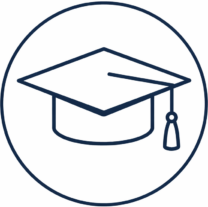
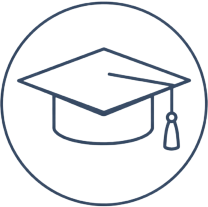
Retours cliente du 28 septembre : dates, icône, accès formation, paiement
Centre de formation
- l'icône des évaluations avait un fond blanc opaque, contrairement aux deux
  autres : détourée, le carré blanc sur le fond taupe disparaît
- dates corrigées pour Matwork 2 et 3, le petit matériel et le Swiss Ball
- cinq sessions intensives ajoutées, l'ensemble étant rangé dans l'ordre
  chronologique ; badge "Possibilité d'hébergement" là où elle l'indique
- leurs tarifs n'ayant pas été communiqués, elles affichent "Nous consulter"

Accueil
- sous "Pays Basque", la ligne "Les Cours & Le Centre de Formation
  Professionnelle" avec deux boutons d'accès direct
- bande "De passage au Pays Basque ?" avec le lien de paiement Stripe pour un
  cours d'une heure à l'unité

Changed region(s): [[0.0577, 0.2029, 0.9231, 0.7536], [0.0, 0.0, 1.0, 1.0]]

diff --git a/le-centre-de-formation/index.html b/le-centre-de-formation/index.html
@@ -17,7 +17,7 @@
 <link rel="preconnect" href="https://fonts.googleapis.com">
 <link rel="preconnect" href="https://fonts.gstatic.com" crossorigin>
 <link rel="stylesheet" href="https://fonts.googleapis.com/css2?family=Dancing+Script:wght@400;500;600;700&family=EB+Garamond:ital,wght@0,400;0,500;0,600;1,400&display=swap">
-<link rel="stylesheet" href="../assets/css/style.css?v=46090c5a">
+<link rel="stylesheet" href="../assets/css/style.css?v=d202612e">
 </head>
 <body class="theme-navy">
 <a class="skip-link" href="#main">Aller au contenu</a>
@@ -217,7 +217,7 @@
         <div>
           <h3 class="step__title">MATWORK 2</h3>
           <p class="step__level">[pour public niveau intermédiaire]</p>
-          <p class="step__dates"><svg viewBox="0 0 24 24" aria-hidden="true"><path d="M7 2v2H5a2 2 0 0 0-2 2v14a2 2 0 0 0 2 2h14a2 2 0 0 0 2-2V6a2 2 0 0 0-2-2h-2V2h-2v2H9V2H7Zm12 8v10H5V10h14Z"/></svg><span>28 &amp; 29 novembre 2026 + 5 &amp; 6 décembre</span></p>
+          <p class="step__dates"><svg viewBox="0 0 24 24" aria-hidden="true"><path d="M7 2v2H5a2 2 0 0 0-2 2v14a2 2 0 0 0 2 2h14a2 2 0 0 0 2-2V6a2 2 0 0 0-2-2h-2V2h-2v2H9V2H7Zm12 8v10H5V10h14Z"/></svg><span>28 &amp; 29 novembre 2026 + 3 &amp; 5 décembre</span></p>
         </div>
         <ul class="step__prices"><li><span>financement personnel</span><b>890€</b></li><li><span>avec prise en charge</span><b>1090€</b></li></ul>
       </article>
@@ -225,15 +225,23 @@
         <div>
           <h3 class="step__title">MATWORK 3</h3>
           <p class="step__level">[pour public niveau avancé]</p>
-          <p class="step__dates"><svg viewBox="0 0 24 24" aria-hidden="true"><path d="M7 2v2H5a2 2 0 0 0-2 2v14a2 2 0 0 0 2 2h14a2 2 0 0 0 2-2V6a2 2 0 0 0-2-2h-2V2h-2v2H9V2H7Zm12 8v10H5V10h14Z"/></svg><span>30 &amp; 31 janvier 2027 + 6 &amp; 7 février 2027</span></p>
+          <p class="step__dates"><svg viewBox="0 0 24 24" aria-hidden="true"><path d="M7 2v2H5a2 2 0 0 0-2 2v14a2 2 0 0 0 2 2h14a2 2 0 0 0 2-2V6a2 2 0 0 0-2-2h-2V2h-2v2H9V2H7Zm12 8v10H5V10h14Z"/></svg><span>9 &amp; 10 janvier 2027 + 14 &amp; 16 janvier 2027</span></p>
         </div>
         <ul class="step__prices"><li><span>financement personnel</span><b>890€</b></li><li><span>avec prise en charge</span><b>1090€</b></li></ul>
       </article>
       <article class="step reveal">
         <div>
+          <h3 class="step__title">MATWORK 1 + 2 + 3</h3>
+          <p class="step__level">[formation intensive]</p>
+          <p class="step__dates"><svg viewBox="0 0 24 24" aria-hidden="true"><path d="M7 2v2H5a2 2 0 0 0-2 2v14a2 2 0 0 0 2 2h14a2 2 0 0 0 2-2V6a2 2 0 0 0-2-2h-2V2h-2v2H9V2H7Zm12 8v10H5V10h14Z"/></svg><span>du 13 au 19 février 2027</span><span class="step__mention">Possibilité d’hébergement</span></p>
+        </div>
+        <ul class="step__prices"><li><span>tarif</span><b>Nous consulter</b></li></ul>
+      </article>
+      <article class="step reveal">
+        <div>
           <h3 class="step__title">Petit matériel (magic circle, foam roller, élastique, balles, ballon paille.)</h3>
           <p class="step__level">[pour tous niveaux]</p>
-          <p class="step__dates"><svg viewBox="0 0 24 24" aria-hidden="true"><path d="M7 2v2H5a2 2 0 0 0-2 2v14a2 2 0 0 0 2 2h14a2 2 0 0 0 2-2V6a2 2 0 0 0-2-2h-2V2h-2v2H9V2H7Zm12 8v10H5V10h14Z"/></svg><span>6 &amp; 7 mars 2027</span></p>
+          <p class="step__dates"><svg viewBox="0 0 24 24" aria-hidden="true"><path d="M7 2v2H5a2 2 0 0 0-2 2v14a2 2 0 0 0 2 2h14a2 2 0 0 0 2-2V6a2 2 0 0 0-2-2h-2V2h-2v2H9V2H7Zm12 8v10H5V10h14Z"/></svg><span>4 &amp; 11 mars 2027</span></p>
         </div>
         <ul class="step__prices"><li><span>financement personnel</span><b>490€</b></li><li><span>avec prise en charge</span><b>590€</b></li></ul>
       </article>
@@ -241,9 +249,25 @@
         <div>
           <h3 class="step__title">SWISS BALL</h3>
           <p class="step__level">[pour tous niveaux]</p>
-          <p class="step__dates"><svg viewBox="0 0 24 24" aria-hidden="true"><path d="M7 2v2H5a2 2 0 0 0-2 2v14a2 2 0 0 0 2 2h14a2 2 0 0 0 2-2V6a2 2 0 0 0-2-2h-2V2h-2v2H9V2H7Zm12 8v10H5V10h14Z"/></svg><span>3 &amp; 4 avril 2027</span></p>
+          <p class="step__dates"><svg viewBox="0 0 24 24" aria-hidden="true"><path d="M7 2v2H5a2 2 0 0 0-2 2v14a2 2 0 0 0 2 2h14a2 2 0 0 0 2-2V6a2 2 0 0 0-2-2h-2V2h-2v2H9V2H7Zm12 8v10H5V10h14Z"/></svg><span>18 &amp; 25 mars 2027</span></p>
         </div>
         <ul class="step__prices"><li><span>financement personnel</span><b>490€</b></li><li><span>avec prise en charge</span><b>590€</b></li></ul>
+      </article>
+      <article class="step reveal">
+        <div>
+          <h3 class="step__title">MATWORK 1 &amp; 2</h3>
+          <p class="step__level">[formation intensive]</p>
+          <p class="step__dates"><svg viewBox="0 0 24 24" aria-hidden="true"><path d="M7 2v2H5a2 2 0 0 0-2 2v14a2 2 0 0 0 2 2h14a2 2 0 0 0 2-2V6a2 2 0 0 0-2-2h-2V2h-2v2H9V2H7Zm12 8v10H5V10h14Z"/></svg><span>du 6 au 9 mai 2027, pont de l’Ascension</span><span class="step__mention">Possibilité d’hébergement</span></p>
+        </div>
+        <ul class="step__prices"><li><span>tarif</span><b>Nous consulter</b></li></ul>
+      </article>
+      <article class="step reveal">
+        <div>
+          <h3 class="step__title">MATWORK 3</h3>
+          <p class="step__level">[formation intensive]</p>
+          <p class="step__dates"><svg viewBox="0 0 24 24" aria-hidden="true"><path d="M7 2v2H5a2 2 0 0 0-2 2v14a2 2 0 0 0 2 2h14a2 2 0 0 0 2-2V6a2 2 0 0 0-2-2h-2V2h-2v2H9V2H7Zm12 8v10H5V10h14Z"/></svg><span>du samedi 15 au 17 mai 2027, pont de Pentecôte</span><span class="step__mention">Possibilité d’hébergement</span></p>
+        </div>
+        <ul class="step__prices"><li><span>tarif</span><b>Nous consulter</b></li></ul>
       </article>
       <article class="step reveal">
         <div>
@@ -252,6 +276,22 @@
           <p class="step__dates"><svg viewBox="0 0 24 24" aria-hidden="true"><path d="M7 2v2H5a2 2 0 0 0-2 2v14a2 2 0 0 0 2 2h14a2 2 0 0 0 2-2V6a2 2 0 0 0-2-2h-2V2h-2v2H9V2H7Zm12 8v10H5V10h14Z"/></svg><span>29 &amp; 30 mai 2027 + 5 &amp; 6 juin 2027</span></p>
         </div>
         <ul class="step__prices"><li><span>financement personnel</span><b>1090€</b></li><li><span>avec prise en charge</span><b>1290€</b></li></ul>
+      </article>
+      <article class="step reveal">
+        <div>
+          <h3 class="step__title">Petit matériel</h3>
+          <p class="step__level">[formation intensive]</p>
+          <p class="step__dates"><svg viewBox="0 0 24 24" aria-hidden="true"><path d="M7 2v2H5a2 2 0 0 0-2 2v14a2 2 0 0 0 2 2h14a2 2 0 0 0 2-2V6a2 2 0 0 0-2-2h-2V2h-2v2H9V2H7Zm12 8v10H5V10h14Z"/></svg><span>19 &amp; 20 juin 2027</span></p>
+        </div>
+        <ul class="step__prices"><li><span>tarif</span><b>Nous consulter</b></li></ul>
+      </article>
+      <article class="step reveal">
+        <div>
+          <h3 class="step__title">SWISS BALL</h3>
+          <p class="step__level">[formation intensive]</p>
+          <p class="step__dates"><svg viewBox="0 0 24 24" aria-hidden="true"><path d="M7 2v2H5a2 2 0 0 0-2 2v14a2 2 0 0 0 2 2h14a2 2 0 0 0 2-2V6a2 2 0 0 0-2-2h-2V2h-2v2H9V2H7Zm12 8v10H5V10h14Z"/></svg><span>27 juin 2027</span></p>
+        </div>
+        <ul class="step__prices"><li><span>tarif</span><b>Nous consulter</b></li></ul>
       </article>
       </div>
 

diff --git a/index.html b/index.html
@@ -17,7 +17,7 @@
 <link rel="preconnect" href="https://fonts.googleapis.com">
 <link rel="preconnect" href="https://fonts.gstatic.com" crossorigin>
 <link rel="stylesheet" href="https://fonts.googleapis.com/css2?family=Dancing+Script:wght@400;500;600;700&family=EB+Garamond:ital,wght@0,400;0,500;0,600;1,400&display=swap">
-<link rel="stylesheet" href="assets/css/style.css?v=46090c5a">
+<link rel="stylesheet" href="assets/css/style.css?v=d202612e">
 <script type="application/ld+json">
 {
   "@context": "https://schema.org",
@@ -76,6 +76,11 @@
       <p class="hero__brand">Les<em>2</em>L</p>
       <h1 class="hero__tagline">Pilates - Yoga - Ballet</h1>
       <h2 class="hero__place">Pays Basque</h2>
+      <p class="hero__lead">Les Cours &amp; Le Centre de Formation Professionnelle</p>
+      <div class="hero__actions">
+        <a class="btn" href="les-disciplines/">Les cours</a>
+        <a class="btn btn--light" href="le-centre-de-formation/">Le centre de formation</a>
+      </div>
       <div class="hero__socials">
         <a href="https://www.facebook.com/profile.php?id=100070696928721" target="_blank" rel="noopener" aria-label="Facebook"><svg viewBox="0 0 24 24" aria-hidden="true"><path d="M14 13.5h2.5l1-4H14v-2c0-1.03 0-2 2-2h1.5V2.14c-.33-.04-1.55-.14-2.84-.14C12 2 10.5 3.66 10.5 6.7v2.8H8v4h2.5V22H14v-8.5Z"/></svg></a>
         <a href="https://www.instagram.com/_les2l_/" target="_blank" rel="noopener" aria-label="Instagram"><svg viewBox="0 0 24 24" aria-hidden="true"><path d="M12 2.16c3.2 0 3.58.01 4.85.07 3.25.15 4.77 1.69 4.92 4.92.06 1.27.07 1.65.07 4.85s-.01 3.58-.07 4.85c-.15 3.23-1.66 4.77-4.92 4.92-1.27.06-1.64.07-4.85.07s-3.58-.01-4.85-.07c-3.26-.15-4.77-1.7-4.92-4.92-.06-1.27-.07-1.64-.07-4.85s.01-3.58.07-4.85C2.38 3.92 3.89 2.38 7.15 2.23 8.42 2.18 8.8 2.16 12 2.16Zm0 5.5a4.34 4.34 0 1 0 0 8.68 4.34 4.34 0 0 0 0-8.68Zm0 7.16a2.82 2.82 0 1 1 0-5.64 2.82 2.82 0 0 1 0 5.64Zm4.5-8.4a1.01 1.01 0 1 0 0 2.03 1.01 1.01 0 0 0 0-2.03Z"/></svg></a>
@@ -146,6 +151,23 @@
           <p><strong>Rejoignez-nous !</strong></p>
           <p><a class="btn" href="event/">Les prochains évènements</a></p>
         </div>
+      </div>
+    </div>
+  </section>
+
+  <!-- Cours à l'unité -->
+  <section class="section section--tight">
+    <div class="container">
+      <div class="dropin reveal">
+        <div>
+          <p class="eyebrow">De passage au Pays Basque&nbsp;?</p>
+          <h2 class="dropin__title">Venez pour un seul cours</h2>
+          <p class="dropin__text">Pas d’abonnement, pas d’inscription&nbsp;: réservez une séance
+          d’une heure dans la discipline de votre choix et venez essayer.</p>
+        </div>
+        <a class="btn" href="https://buy.stripe.com/dRm3co4V6aBj2iV4Sc2Fa00" target="_blank" rel="noopener">
+          Réserver un cours d’une heure
+        </a>
       </div>
     </div>
   </section>

diff --git a/assets/css/style.css b/assets/css/style.css
@@ -225,6 +225,11 @@ body.no-scroll{overflow:hidden}
   font-weight:600;
   color:var(--plum-light);margin:0;
 }
+.hero__lead{
+  margin:1.1em auto 0;max-width:30ch;
+  font-size:clamp(1rem,.92rem + .35vw,1.18rem);
+  letter-spacing:.02em;color:rgba(255,255,255,.88);
+}
 .hero__socials{display:flex;justify-content:center;gap:14px;margin-top:26px}
 .hero__socials a{
   display:grid;place-items:center;width:42px;height:42px;
@@ -294,6 +299,19 @@ body.no-scroll{overflow:hidden}
   width:60%;height:60%;border:1px solid var(--plum);opacity:.35;
   border-radius:var(--radius);z-index:-1;
 }
+
+/* --- Bande « cours à l'unité » ------------------------------------------- */
+.dropin{
+  display:flex;flex-wrap:wrap;align-items:center;justify-content:space-between;
+  gap:clamp(20px,3vw,44px);
+  padding:clamp(26px,3vw,40px) clamp(24px,3.4vw,48px);
+  background:var(--paper-warm);
+  border:1px solid var(--line);border-left:3px solid var(--plum);
+}
+.dropin > div{flex:1 1 380px}
+.dropin__title{font-size:clamp(1.35rem,1.1rem + 1vw,1.9rem);color:var(--navy);margin:0 0 .35em}
+.dropin__text{margin:0;color:var(--muted);max-width:52ch}
+.dropin .btn{flex:none}
 
 /* --- Cartes « Découvrez » ----------------------------------------------- */
 .discover{display:grid;grid-template-columns:repeat(auto-fit,minmax(min(240px,100%),1fr));gap:clamp(18px,2.6vw,32px)}
@@ -670,10 +688,16 @@ body.no-scroll{overflow:hidden}
 }
 .step__level{margin:0 0 .6em;font-size:.95rem;color:var(--muted)}
 .step__dates{
-  display:flex;align-items:center;gap:8px;
+  display:flex;align-items:center;flex-wrap:wrap;gap:6px 8px;
   margin:0;font-size:.95rem;color:var(--ink);
 }
 .step__dates svg{width:15px;height:15px;fill:var(--plum);flex:none}
+.step__mention{
+  margin-left:12px;padding:3px 10px;
+  font-size:.74rem;letter-spacing:.09em;text-transform:uppercase;
+  border:1px solid currentColor;border-radius:999px;
+  opacity:.75;white-space:nowrap;
+}
 .step__prices{list-style:none;margin:0;padding:0;text-align:right;min-width:225px}
 .step__prices li{
   display:flex;align-items:baseline;justify-content:flex-end;gap:10px;

diff --git a/contact/index.html b/contact/index.html
@@ -17,7 +17,7 @@
 <link rel="preconnect" href="https://fonts.googleapis.com">
 <link rel="preconnect" href="https://fonts.gstatic.com" crossorigin>
 <link rel="stylesheet" href="https://fonts.googleapis.com/css2?family=Dancing+Script:wght@400;500;600;700&family=EB+Garamond:ital,wght@0,400;0,500;0,600;1,400&display=swap">
-<link rel="stylesheet" href="../assets/css/style.css?v=46090c5a">
+<link rel="stylesheet" href="../assets/css/style.css?v=d202612e">
 </head>
 <body>
 <a class="skip-link" href="#main">Aller au contenu</a>

diff --git a/event/index.html b/event/index.html
@@ -17,7 +17,7 @@
 <link rel="preconnect" href="https://fonts.googleapis.com">
 <link rel="preconnect" href="https://fonts.gstatic.com" crossorigin>
 <link rel="stylesheet" href="https://fonts.googleapis.com/css2?family=Dancing+Script:wght@400;500;600;700&family=EB+Garamond:ital,wght@0,400;0,500;0,600;1,400&display=swap">
-<link rel="stylesheet" href="../assets/css/style.css?v=46090c5a">
+<link rel="stylesheet" href="../assets/css/style.css?v=d202612e">
 </head>
 <body>
 <a class="skip-link" href="#main">Aller au contenu</a>

diff --git a/les-disciplines/index.html b/les-disciplines/index.html
@@ -17,7 +17,7 @@
 <link rel="preconnect" href="https://fonts.googleapis.com">
 <link rel="preconnect" href="https://fonts.gstatic.com" crossorigin>
 <link rel="stylesheet" href="https://fonts.googleapis.com/css2?family=Dancing+Script:wght@400;500;600;700&family=EB+Garamond:ital,wght@0,400;0,500;0,600;1,400&display=swap">
-<link rel="stylesheet" href="../assets/css/style.css?v=46090c5a">
+<link rel="stylesheet" href="../assets/css/style.css?v=d202612e">
 </head>
 <body>
 <a class="skip-link" href="#main">Aller au contenu</a>

diff --git a/les-professionnels/index.html b/les-professionnels/index.html
@@ -17,7 +17,7 @@
 <link rel="preconnect" href="https://fonts.googleapis.com">
 <link rel="preconnect" href="https://fonts.gstatic.com" crossorigin>
 <link rel="stylesheet" href="https://fonts.googleapis.com/css2?family=Dancing+Script:wght@400;500;600;700&family=EB+Garamond:ital,wght@0,400;0,500;0,600;1,400&display=swap">
-<link rel="stylesheet" href="../assets/css/style.css?v=46090c5a">
+<link rel="stylesheet" href="../assets/css/style.css?v=d202612e">
 </head>
 <body>
 <a class="skip-link" href="#main">Aller au contenu</a>

diff --git a/404.html b/404.html
@@ -17,7 +17,7 @@
 <link rel="preconnect" href="https://fonts.googleapis.com">
 <link rel="preconnect" href="https://fonts.gstatic.com" crossorigin>
 <link rel="stylesheet" href="https://fonts.googleapis.com/css2?family=Dancing+Script:wght@400;500;600;700&family=EB+Garamond:ital,wght@0,400;0,500;0,600;1,400&display=swap">
-<link rel="stylesheet" href="assets/css/style.css?v=46090c5a">
+<link rel="stylesheet" href="assets/css/style.css?v=d202612e">
 </head>
 <body>
 <a class="skip-link" href="#main">Aller au contenu</a>

diff --git a/_build/build_formation.py b/_build/build_formation.py
@@ -1,21 +1,43 @@
 # -*- coding: utf-8 -*-
 import common as c
 
+# Sessions listées dans l'ordre chronologique, tous modules confondus.
+# (intitulé, public, dates, tarifs, mention)
+# Un tarif vide affiche « Nous consulter » : c'est le cas des sessions
+# intensives, dont la cliente n'a pas communiqué les prix (28/09/2026).
 MODULES = [
  ("MATWORK 1", "[pour public niveau débutant]", "26 &amp; 27 Septembre + 3 &amp; 4 octobre 2026",
-  [("financement personnel", "890€"), ("avec prise en charge", "1090€")]),
- ("MATWORK 2", "[pour public niveau intermédiaire]", "28 &amp; 29 novembre 2026 + 5 &amp; 6 décembre",
-  [("financement personnel", "890€"), ("avec prise en charge", "1090€")]),
- ("MATWORK 3", "[pour public niveau avancé]", "30 &amp; 31 janvier 2027 + 6 &amp; 7 février 2027",
-  [("financement personnel", "890€"), ("avec prise en charge", "1090€")]),
+  [("financement personnel", "890€"), ("avec prise en charge", "1090€")], ""),
+
+ ("MATWORK 2", "[pour public niveau intermédiaire]", "28 &amp; 29 novembre 2026 + 3 &amp; 5 décembre",
+  [("financement personnel", "890€"), ("avec prise en charge", "1090€")], ""),
+
+ ("MATWORK 3", "[pour public niveau avancé]", "9 &amp; 10 janvier 2027 + 14 &amp; 16 janvier 2027",
+  [("financement personnel", "890€"), ("avec prise en charge", "1090€")], ""),
+
+ ("MATWORK 1 + 2 + 3", "[formation intensive]", "du 13 au 19 février 2027",
+  [], "Possibilité d’hébergement"),
+
  ("Petit matériel (magic circle, foam roller, élastique, balles, ballon paille.)", "[pour tous niveaux]",
-  "6 &amp; 7 mars 2027",
-  [("financement personnel", "490€"), ("avec prise en charge", "590€")]),
- ("SWISS BALL", "[pour tous niveaux]", "3 &amp; 4 avril 2027",
-  [("financement personnel", "490€"), ("avec prise en charge", "590€")]),
+  "4 &amp; 11 mars 2027",
+  [("financement personnel", "490€"), ("avec prise en charge", "590€")], ""),
+
+ ("SWISS BALL", "[pour tous niveaux]", "18 &amp; 25 mars 2027",
+  [("financement personnel", "490€"), ("avec prise en charge", "590€")], ""),
+
+ ("MATWORK 1 &amp; 2", "[formation intensive]", "du 6 au 9 mai 2027, pont de l’Ascension",
+  [], "Possibilité d’hébergement"),
+
+ ("MATWORK 3", "[formation intensive]", "du samedi 15 au 17 mai 2027, pont de Pentecôte",
+  [], "Possibilité d’hébergement"),
+
  ("WALL UNIT [Machine]", "[pour public niveau débutant, intermédiaire et avancé]",
   "29 &amp; 30 mai 2027 + 5 &amp; 6 juin 2027",
-  [("financement personnel", "1090€"), ("avec prise en charge", "1290€")]),
+  [("financement personnel", "1090€"), ("avec prise en charge", "1290€")], ""),
+
+ ("Petit matériel", "[formation intensive]", "19 &amp; 20 juin 2027", [], ""),
+
+ ("SWISS BALL", "[formation intensive]", "27 juin 2027", [], ""),
 ]
 
 CURSUS = [
@@ -33,13 +55,17 @@ def prices(items):
 
 
 modules = ""
-for (title, level, dates, pr) in MODULES:
-    lignes = "".join('<li><span>%s</span><b>%s</b></li>' % (lbl, p) for lbl, p in pr)
+for (title, level, dates, pr, mention) in MODULES:
+    if pr:
+        lignes = "".join('<li><span>%s</span><b>%s</b></li>' % (lbl, p) for lbl, p in pr)
+    else:
+        lignes = '<li><span>tarif</span><b>Nous consulter</b></li>'
+    badge = ('<span class="step__mention">%s</span>' % mention) if mention else ""
     modules += f"""      <article class="step reveal">
         <div>
           <h3 class="step__title">{title}</h3>
           <p class="step__level">{level}</p>
-          <p class="step__dates">{c.IC_CAL}<span>{dates}</span></p>
+          <p class="step__dates">{c.IC_CAL}<span>{dates}</span>{badge}</p>
         </div>
         <ul class="step__prices">{lignes}</ul>
       </article>

diff --git a/_build/build_index.py b/_build/build_index.py
@@ -90,6 +90,11 @@ html += f"""
       <p class="hero__brand">Les<em>2</em>L</p>
       <h1 class="hero__tagline">Pilates - Yoga - Ballet</h1>
       <h2 class="hero__place">Pays Basque</h2>
+      <p class="hero__lead">Les Cours &amp; Le Centre de Formation Professionnelle</p>
+      <div class="hero__actions">
+        <a class="btn" href="les-disciplines/">Les cours</a>
+        <a class="btn btn--light" href="le-centre-de-formation/">Le centre de formation</a>
+      </div>
       <div class="hero__socials">
         <a href="{c.FACEBOOK}" target="_blank" rel="noopener" aria-label="Facebook">{c.IC_FB}</a>
         <a href="{c.INSTAGRAM}" target="_blank" rel="noopener" aria-label="Instagram">{c.IC_IG}</a>
@@ -160,6 +165,23 @@ html += f"""
           <p><strong>Rejoignez-nous !</strong></p>
           <p><a class="btn" href="{c.EVENT_PDF}">Les prochains évènements</a></p>
         </div>
+      </div>
+    </div>
+  </section>
+
+  <!-- Cours à l'unité -->
+  <section class="section section--tight">
+    <div class="container">
+      <div class="dropin reveal">
+        <div>
+          <p class="eyebrow">De passage au Pays Basque&nbsp;?</p>
+          <h2 class="dropin__title">Venez pour un seul cours</h2>
+          <p class="dropin__text">Pas d’abonnement, pas d’inscription&nbsp;: réservez une séance
+          d’une heure dans la discipline de votre choix et venez essayer.</p>
+        </div>
+        <a class="btn" href="{c.STRIPE_COURS_1H}" target="_blank" rel="noopener">
+          Réserver un cours d’une heure
+        </a>
       </div>
     </div>
   </section>

diff --git a/_build/common.py b/_build/common.py
@@ -22,6 +22,8 @@ FACEBOOK = "https://www.facebook.com/profile.php?id=100070696928721"
 INSTAGRAM = "https://www.instagram.com/_les2l_/"
 EMAIL = "les2ailespy@gmail.com"
 PHONE = "+33 6 09 14 84 56"
+# Lien de paiement Stripe pour un cours à l'unité (1 h), transmis le 28/09/2026
+STRIPE_COURS_1H = "https://buy.stripe.com/dRm3co4V6aBj2iV4Sc2Fa00"
 PHONE_HREF = "+33609148456"
 
 # Réseaux propres au centre de formation, distincts de ceux du studio.

diff --git a/CLAUDE.md b/CLAUDE.md
@@ -219,6 +219,21 @@ fond bleu marine** pour le distinguer du reste du site. C'est le rôle de
 `<body class="theme-navy">` : toutes les surcharges sont regroupées dans
 `style.css` sous « Page inversée (centre de formation) ».
 
+### Sessions de formation : la source de vérité
+
+`MODULES` dans `_build/build_formation.py` liste **les sessions**, pas les
+modules : plusieurs sessions peuvent porter le même intitulé (une session
+classique et une session intensive de MATWORK 3, par exemple). Elles sont
+rangées dans **l'ordre chronologique du tout**, comme la cliente l'a demandé
+le 28/09/2026.
+
+Chaque entrée est `(intitulé, public, dates, tarifs, mention)`. Un `tarifs`
+vide affiche « Nous consulter » : c'est le cas des 5 sessions intensives, dont
+**les prix n'ont pas été communiqués**. La `mention` sert au badge
+« Possibilité d'hébergement ».
+
+---
+
 ### Le module d'avis est dans le pied de page
 
 Depuis le 28 septembre 2026, le carrousel d'avis Google est produit par
@@ -429,7 +444,7 @@ texte en image serait illisible pour Google et les lecteurs d'écran.
 | 3 ter | *(réglé)* Réseaux du centre de formation | Reçus le 28 septembre 2026. Ce sont bien des comptes **distincts** de ceux du studio : `facebook.com/profile.php?id=61572158867367` et `instagram.com/les2l.centre.de.formation/`. Le pied de page garde ceux du studio, c'est voulu |
 | 4 | Fiches des disciplines manquantes | La cliente a fourni 12 fiches ; l'accueil en cite d'autres (Yoga Kundalini, Yoga Nidra, Bain Sonore, Pilates Reformer, coaching danseur préprofessionnel) |
 | 5 | Confirmation de la **grille tarifaire** | Le PDF vient de l'ancien site (déposé en 07/2025), comme le planning périmé qui s'y trouvait |
-| 6 | **PDF « évènements »** + **liste des events** | `common.py` : `EVENT_PDF = "event/"` est un provisoire. À remplacer par `assets/docs/events.pdf`. Cible du bouton « Les prochains évènements » de l'accueil, et du bouton « Être informé » de `/event/` (qui pointe pour l'instant sur `/contact/` pour éviter un auto-lien) |
+| 6 | **PDF « évènements » et nouveau PDF planning** | Annoncés le 28/09/2026, pas encore déposés dans le projet. L'ancien EVENT_PDF + **liste des events** | `common.py` : `EVENT_PDF = "event/"` est un provisoire. À remplacer par `assets/docs/events.pdf`. Cible du bouton « Les prochains évènements » de l'accueil, et du bouton « Être informé » de `/event/` (qui pointe pour l'instant sur `/contact/` pour éviter un auto-lien) |
 | 7 | **1 photo pour la page Events** | Celle des « Ateliers, masterclass & stages ». La cliente préfère garder en attendant le visuel de yoga aérien `g02.jpg` (la femme à l'envers), repéré par un commentaire `TODO cliente` dans `build_event_contact.py`. Celle des groupes privés a été reçue le 14/09/2026 (`cours-prive.jpg`) |
 | 8 | **Dates des modules de formation** | La cliente annonce de nouvelles dates le 26/09/2026. Celles en ligne (`MODULES` dans `build_formation.py`) sont encore les anciennes |
 | 9 | **« finançables par l'état »** dans la carte « Le lieu » | Elle a demandé « l'État » → « les OPCO » pour le bandeau de financement. La carte « Le lieu » garde « finançables par l'état (FIFPL, AFDAS, France travail, Conseil régional) », qui liste des financeurs précis. À trancher |
